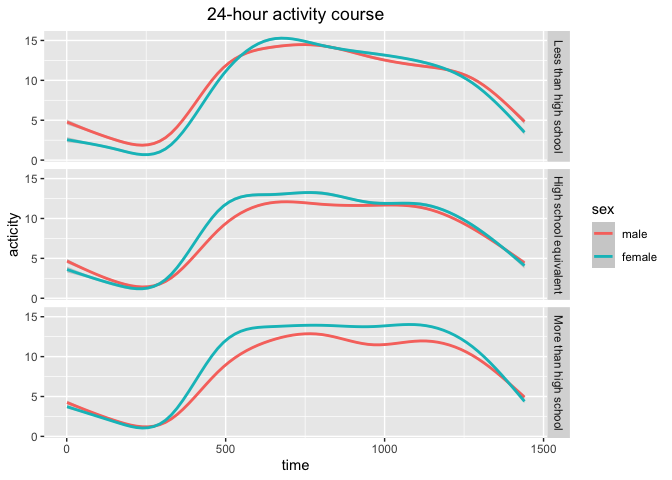
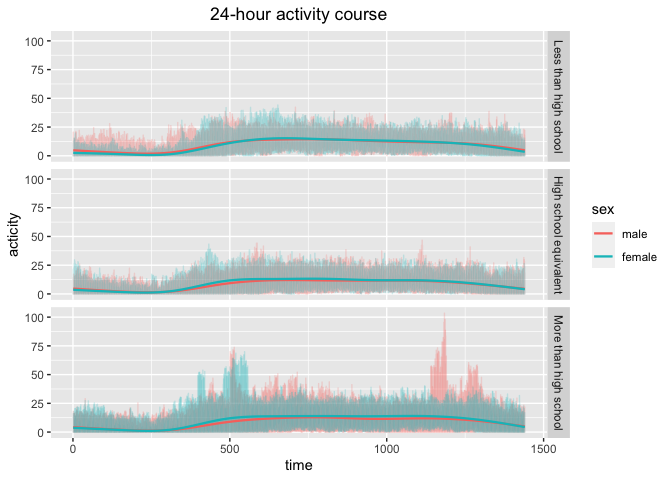
finish comments

Changed region(s): [[0.0312, 0.0, 0.8125, 0.9688], [0.875, 0.4375, 0.9375, 0.5625], [0.4062, 0.9375, 0.4688, 1.0]]

diff --git a/p8105_hw3_pt2632.md b/p8105_hw3_pt2632.md
@@ -30,10 +30,54 @@ data("instacart")
 
 ## Data Description
 
-There are 15 variables and 1384617 in this datasest.
+There are 15 variables and 1384617 in this dataset.
 
-structure of the data, describing some key variables, and giving
-illstrative examples of observations
+Structure of the data: 2-d dataframe
+
+Key variables:  
+- `order_id`: order identifier
+
+- `product_id`: product identifier
+
+- `add_to_cart_order`: order in which each product was added to cart
+
+- `reordered`: 1 = this prodcut has been ordered by this user in the
+  past, 0 = otherwise
+
+- `user_id`: customer identifier
+
+- `eval_set`: which evaluation set this order belongs in (Note that the
+  data for use in this class is exclusively from the “train” eval_set)
+
+- `order_number`: the order sequence number for this user (1=first,
+  n=nth)
+
+- `order_dow`: the day of the week on which the order was placed
+
+- `order_hour_of_day`: the hour of the day on which the order was placed
+
+- `days_since_prior_order`: days since the last order, capped at 30, NA
+  if order_number=1
+
+- `product_name`: name of the product
+
+- `aisle_id`: aisle identifier
+
+- `department_id`: department identifier
+
+- `aisle`: the name of the aisle
+
+- `department`: the name of the department
+
+Illustrative examples of observation:
+
+For 4-th order (order_id: 1) of customer (user_id: 112108), there is a
+Bulgarian Yogurt(product_id: 49302) placed as the 1-th item in the cart.
+It was ordered by this customer in past and the last order of this
+customer was placed on 9 days before. This slice of data comes from
+“train” evaluation set. The placed time of this item is in 10-th hour on
+the 5-th day in a week. And this product is transported from the dairy
+eggs department (department_id: 16) of yogurt aisle (aisle_id: 120).
 
 ## Answers to Questions
 
@@ -48,7 +92,7 @@ most order items.
     aisles sensibly, and organize your plot so others can read it.
 
 ``` r
-instacart |> 
+slice1 <- instacart |> 
   # group operation
   group_by(aisle_id) |> 
   # calculate order count of each aisle
@@ -56,9 +100,9 @@ instacart |>
   # select the aisle with more than 10000 ordered items
   filter(n_orders > 10000) |>
   # arrange aisle
-  arrange(aisle_id) |>
+  arrange(aisle_id)
   # scatter point plot of "order counts" over "aisle id"
-  ggplot(aes(aisle_id, n_orders)) + geom_point(alpha = .4) +
+  ggplot(slice1, aes(aisle_id, n_orders)) + geom_point(alpha = .4) +
   labs(
     title = "Order count in aisle", 
     x = "aisle id", 
@@ -67,7 +111,11 @@ instacart |>
 ```
 
 ![](p8105_hw3_pt2632_files/figure-gfm/unnamed-chunk-2-1.png)<!-- -->
-Comments:
+
+Comments: There are 39 aisles with more than 10000 item ordered. 2 of
+them have more than 120000 item ordered, 3 aisle’s ordered items count
+between 40000 and 80000. And the rest of them are with less than 40000
+ordered items.
 
 3.  Make a table showing the three most popular items in each of the
     aisles “baking ingredients”, “dog food care”, and “packaged
@@ -106,6 +154,12 @@ instacart |>
 | packaged vegetables fruits |      27966 |        5546 |   2 |
 | packaged vegetables fruits |      39275 |        4966 |   3 |
 
+Comments: The top 3 popular items in “baking ingredients” aisle is the
+item with id 23537, 23405 and 49533. The top 3 popular items in “dog
+food care” aisle is the item with id 722, 23329 and 17471. The top 3
+popular items in “packaged vegetables fruits” aisle is the item with id
+21903, 27966 and 39275.
+
 4.  Make a table showing the mean hour of the day at which Pink Lady
     Apples and Coffee Ice Cream are ordered on each day of the week;
     format this table for human readers (i.e. produce a 2 x 7 table).
@@ -130,6 +184,10 @@ instacart |>
 | Coffee Ice Cream | 13.77 | 14.32 | 15.38 | 15.32 | 15.22 | 12.26 | 13.83 |
 | Pink Lady Apples | 13.44 | 11.36 | 11.70 | 14.25 | 11.55 | 12.78 | 11.94 |
 
+Comments: The average ordering hour of Coffee Ice Cream is between 12
+and 16 in a week. The average ordering hour of Pink Lady Apples is
+between 11 and 15 in a week.
+
 # Problem 2
 
 ``` r
@@ -142,7 +200,8 @@ data("brfss_smart2010")
 ``` r
 # define level order of response
 ordered_response <- c("Poor", "Fair", "Good", "Very good", "Excellent")
-cleaned_brfss <- brfss_smart2010 |> 
+cleaned_brfss <- 
+  brfss_smart2010 |> 
   # tidy colnames
   janitor::clean_names() |>
   # select topic "Overall Health"
@@ -153,58 +212,65 @@ cleaned_brfss <- brfss_smart2010 |>
   mutate(response = factor(response, levels = ordered_response))
 ```
 
+Description: There are 10625 observations and 23 variables in the
+cleaned dataset.
+
 ## Answers to Questions
 
 1.  In 2002, which states were observed at 7 or more locations? What
     about in 2010?
 
 ``` r
-cleaned_brfss |>
-  filter(year == 2002) |>
-  group_by(locationabbr) |>
-  # !!!!!!!!!!!!!!! unique ???
-  summarize(n_location = n()) |>
-  filter(n_location >= 7)
+cleaned_brfss |> 
+  filter(year == 2002) |> 
+  select(locationabbr, locationdesc) |> 
+  distinct() |> 
+  group_by(locationabbr) |> 
+  summarize(n_location = n()) |> 
+  filter(n_location >= 7) |>
+  knitr::kable()
 ```
 
-    ## # A tibble: 36 × 2
-    ##    locationabbr n_location
-    ##    <chr>             <int>
-    ##  1 AZ                   10
-    ##  2 CO                   20
-    ##  3 CT                   35
-    ##  4 DE                   15
-    ##  5 FL                   35
-    ##  6 GA                   15
-    ##  7 HI                   20
-    ##  8 ID                   10
-    ##  9 IL                   15
-    ## 10 IN                   10
-    ## # ℹ 26 more rows
+| locationabbr | n_location |
+|:-------------|-----------:|
+| CT           |          7 |
+| FL           |          7 |
+| MA           |          8 |
+| NC           |          7 |
+| NJ           |          8 |
+| PA           |         10 |
+
+In 2002, 6 states in table above were observed at 7 or more locations.
 
 ``` r
-cleaned_brfss |>
-  filter(year == 2010) |>
-  group_by(locationabbr) |>
-  # !!!!!!!!!!!!!!! unique ???
-  summarize(n_location = n()) |>
-  filter(n_location >= 7)
+cleaned_brfss |> 
+  filter(year == 2010) |> 
+  select(locationabbr, locationdesc) |> 
+  distinct() |> 
+  group_by(locationabbr) |> 
+  summarize(n_location = n()) |> 
+  filter(n_location >= 7) |>
+  knitr::kable()
 ```
 
-    ## # A tibble: 45 × 2
-    ##    locationabbr n_location
-    ##    <chr>             <int>
-    ##  1 AL                   15
-    ##  2 AR                   15
-    ##  3 AZ                   15
-    ##  4 CA                   60
-    ##  5 CO                   35
-    ##  6 CT                   25
-    ##  7 DE                   15
-    ##  8 FL                  205
-    ##  9 GA                   20
-    ## 10 HI                   20
-    ## # ℹ 35 more rows
+| locationabbr | n_location |
+|:-------------|-----------:|
+| CA           |         12 |
+| CO           |          7 |
+| FL           |         41 |
+| MA           |          9 |
+| MD           |         12 |
+| NC           |         12 |
+| NE           |         10 |
+| NJ           |         19 |
+| NY           |          9 |
+| OH           |          8 |
+| PA           |          7 |
+| SC           |          7 |
+| TX           |         16 |
+| WA           |         10 |
+
+In 2010, 14 states in table above were observed at 7 or more locations.
 
 2.  Construct a dataset that is limited to `Excellent` responses, and
     contains, year, state, and a variable that averages the `data_value`
@@ -214,10 +280,9 @@ cleaned_brfss |>
     `group` aesthetic will help).
 
 ``` r
-cleaned_brfss |> 
-  # !!!!!!!!!!! filter NA ?
+cleaned_brfss |>
   # filter entrys with "Excellent" response
-  filter(response == "Excellent" & !is.na(data_value)) |>
+  filter(response == "Excellent") |>
   # group operation
   group_by(year, locationabbr) |>
   # calculate the mean of data_value of each group
@@ -232,7 +297,14 @@ cleaned_brfss |>
   theme(plot.title = element_text(hjust = 0.5))
 ```
 
+    ## Warning: Removed 3 rows containing missing values (`geom_line()`).
+
 ![](p8105_hw3_pt2632_files/figure-gfm/unnamed-chunk-9-1.png)<!-- -->
+
+Comments:
+
+The mean value of each state are fluctuating along with the time, but
+all of them are between 10 and 30.
 
 3.  Make a two-panel plot showing, for the years 2006, and 2010,
     distribution of `data_value` for responses (“Poor” to “Excellent”)
@@ -241,7 +313,7 @@ cleaned_brfss |>
 ``` r
 cleaned_brfss |>
   # filter entry from specific year
-  filter(year == 2006 | year == 2010 & !is.na(data_value)) |>
+  filter(year == 2006 | year == 2010) |>
   # density plot for each response type
   ggplot(aes(x = data_value, fill = response)) +
   geom_density(alpha = .5) +
@@ -253,17 +325,21 @@ cleaned_brfss |>
   theme(plot.title = element_text(hjust = 0.5))
 ```
 
-    ## Warning: Removed 4 rows containing non-finite values (`stat_density()`).
+    ## Warning: Removed 9 rows containing non-finite values (`stat_density()`).
 
 ![](p8105_hw3_pt2632_files/figure-gfm/unnamed-chunk-10-1.png)<!-- -->
 
-# Problem 3
+Comments:
 
-``` r
-# load data
-acc <- tibble(read.csv("./datasets/nhanes_accel.csv"))
-covar <- tibble(read.csv("./datasets/nhanes_covar.csv", skip = 4))
-```
+There are no significant difference between the distribution of data
+value in specific response category in 2006 and that in 2010. The data
+value of people gave “Poor” response are mostly around 4, the data value
+of people gave “Fair” response are mostly around 10, the data value of
+people gave “Good” response are mostly around 20, the data value of
+people gave “Very Good” response are mostly around 30, the data value of
+people gave “Excellent” response are mostly around 36.
+
+# Problem 3
 
 ## Data Manipulation
 
@@ -273,6 +349,12 @@ participants less than 21 years of age, and those with missing
 demographic data; and encode data with reasonable variable classes
 (i.e. not numeric, and using factors with the ordering of tables and
 plots in mind).
+
+``` r
+# load data
+acc <- tibble(read.csv("./datasets/nhanes_accel.csv"))
+covar <- tibble(read.csv("./datasets/nhanes_covar.csv", skip = 4))
+```
 
 ``` r
 data <- 
@@ -292,6 +374,9 @@ data <-
            levels = c("Less than high school", "High school equivalent", "More than high school"))
 )
 ```
+
+Description: There are 228 observations and 1445 variables in the merged
+and filtered dataset.
 
 ## Answers to Questions
 
@@ -319,6 +404,12 @@ data |>
 | female | High school equivalent |    23 |
 | female | More than high school  |    59 |
 
+Comments: The count of male participant with different education: More
+than high school \> High school equivalent \> Less than high school.
+
+The count of female participant with different education: More than high
+school \> Less than high school \> High school equivalent.
+
 ``` r
 data |>
   # density plot for different education levels and sex
@@ -330,6 +421,16 @@ data |>
 ```
 
 ![](p8105_hw3_pt2632_files/figure-gfm/unnamed-chunk-14-1.png)<!-- -->
+
+Comments: The age of both male and female participants with less than
+high school education are mostly around 70. The age of male participants
+with high school equivalent education are mostly around 60, while the
+age of female participants with high school equivalent education are
+mostly around 74. The age of male participants with more than high
+school education are mostly around 31, while the age of female
+participants with more than high school education are mostly around 33.
+
+The higher the education level is, the smaller the participant age is.
 
 2.  Traditional analyses of accelerometer data focus on the total
     activity over the day. Using your tidied dataset, aggregate across
@@ -362,6 +463,11 @@ data |>
 
 ![](p8105_hw3_pt2632_files/figure-gfm/unnamed-chunk-15-1.png)<!-- -->
 
+Comments: The activity time of participant is mostly decreasing along
+with the age, while sometimes there exists 1-2 peak occurring in
+specific age. The fluctuating range of male participants is less than
+that of female participants.
+
 3.  Accelerometer data allows the inspection activity over the course of
     the day. Make a three-panel plot that shows the 24-hour activity
     time courses for each education level and use color to indicate sex.
@@ -376,7 +482,8 @@ data |>
   mutate(time_tick = parse_number(min_label)) |>
   # plot time course of 24-hour activity
   ggplot(aes(x = time_tick, y = minites, color = sex)) +
-  geom_smooth() +
+  geom_line(alpha = .2) + 
+  geom_smooth(linewidth = .8, se = FALSE) +
   facet_grid(education ~ .) +
   labs(
     title = "24-hour activity course", 
@@ -388,3 +495,23 @@ data |>
     ## `geom_smooth()` using method = 'gam' and formula = 'y ~ s(x, bs = "cs")'
 
 ![](p8105_hw3_pt2632_files/figure-gfm/unnamed-chunk-16-1.png)<!-- -->
+
+Description: The smooth lines of male and female are with no significant
+difference in group with any education background. The activity is
+always stronger after 300 minutes. The activity strength is with no
+significant difference between male participants and female participants
+from less than high school / high school equivalent education
+background. But the participants with more than high school education,
+the male tend to be most active around 500 minutes and 1200 minutes,
+while the female tend to be most active around 500 minutes.
+
+Conclusion: The participants usually become less active after midnight
+(before 400 minutes) and become more active at daytime (400-1300
+minutes). The activity strength of participants from less than high
+school / high school equivalent education background is with no
+sex-specific difference, while that of participants with more than high
+school education is different. The male participants with more than high
+school education tend to be most active at morning and after
+dinner(around 500 minutes and 1200 minutes), while female participants
+with most than high school education tend to be more active only at
+morning (around 500 minutes).
